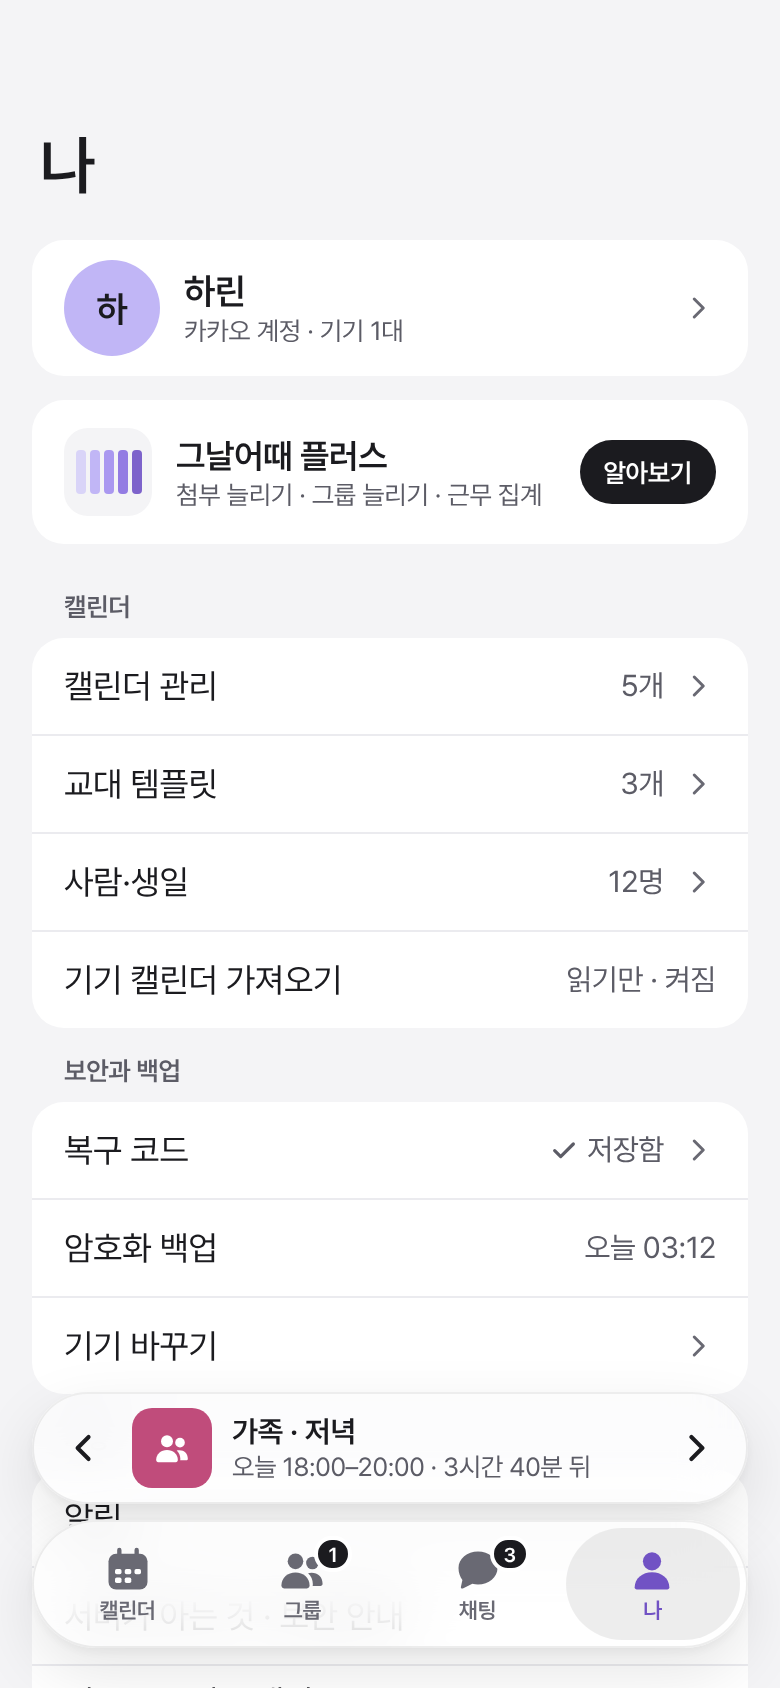
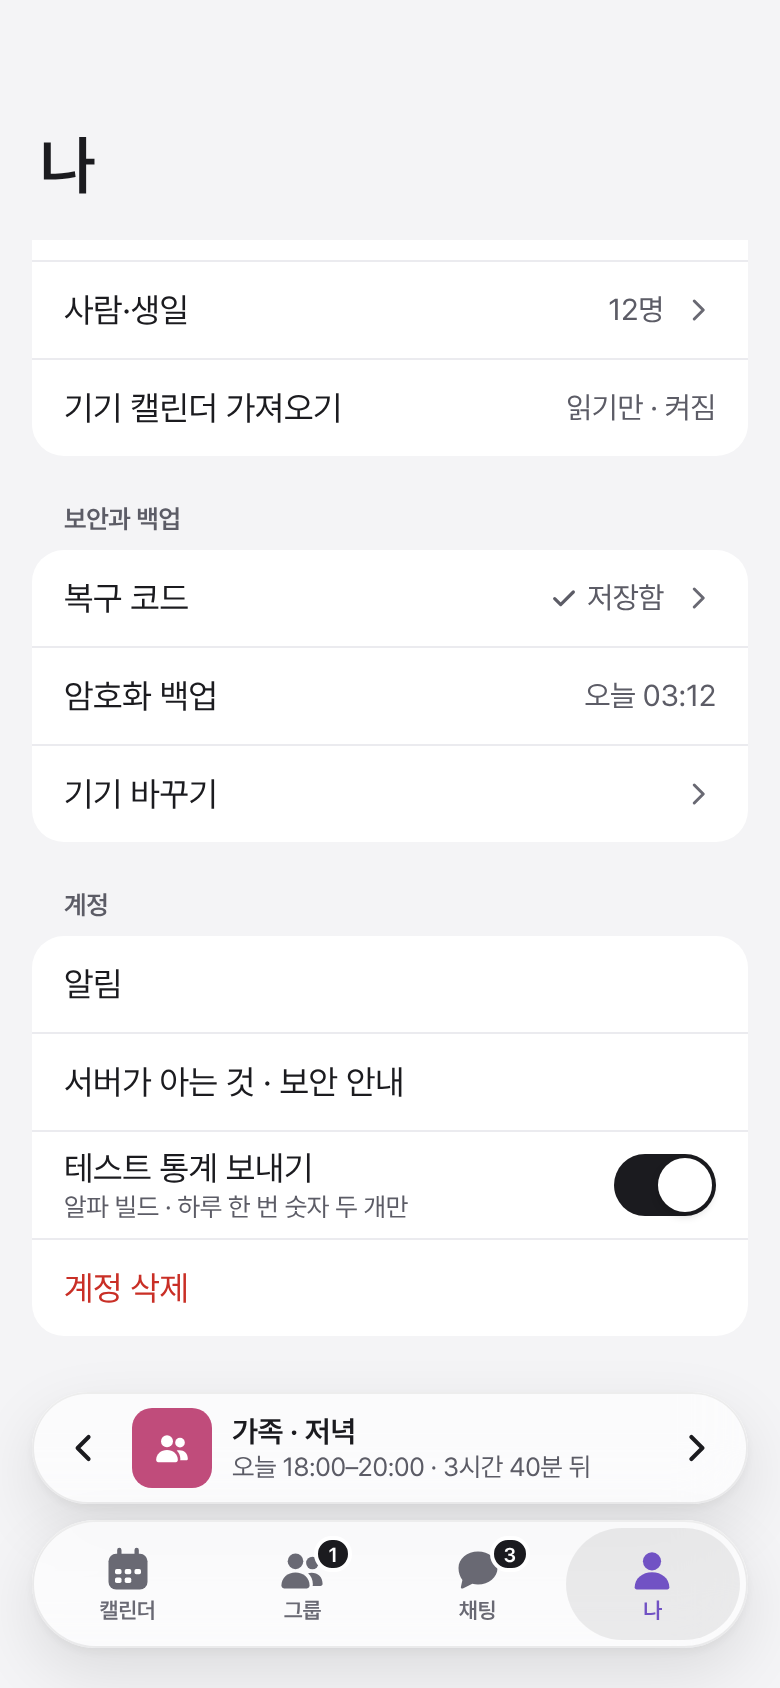
docs(design): scroll the whole settings column on the 나 screen
The first attempt only made the profile cards scroll; the three settings
groups were separate absolute blocks, so the statistics switch stayed
below the frame.

Claude-Session: https://claude.ai/code/session_01NfNQYytRc1WA56NULSw6PM

diff --git a/docs/design/boards/Me.dc.html b/docs/design/boards/Me.dc.html
@@ -13,13 +13,15 @@
 body{margin:0}
 a{color:#1b1b1f;text-decoration:none}a:hover{color:#1b1b1f}
 button{font:inherit;letter-spacing:inherit;color:inherit}
+[data-scroll]>*{flex:none}
 </style>
 </helmet>
 <div style="width: 390px; height: 844px; position: relative; overflow: hidden; background: #f4f4f6; color: #1b1b1f; font-family: Pretendard, -apple-system, BlinkMacSystemFont, 'Apple SD Gothic Neo', 'Noto Sans KR', sans-serif; letter-spacing: -0.01em; word-break: keep-all; overflow-wrap: break-word">
 
 <h1 style="position: absolute; top: 64px; left: 20px; margin: 0; font-size: 32px; font-weight: 600; letter-spacing: -0.025em">나</h1>
 
-<div data-scroll="settings" style="position: absolute; top: 120px; bottom: 0; left: 0; width: 390px; box-sizing: border-box; padding: 0 16px 176px; overflow-y: auto; display: flex; flex-direction: column; gap: 12px">
+<div data-scroll="settings" style="position: absolute; top: 120px; bottom: 0; left: 0; width: 390px; box-sizing: border-box; padding: 0 16px 176px; overflow-y: auto; display: flex; flex-direction: column; gap: 24px">
+<div style="display: flex; flex-direction: column; gap: 12px">
 <a href="Me.dc.html" style="min-height: 68px; box-sizing: border-box; padding: 0 16px; border-radius: 16px; background: #ffffff; display: flex; align-items: center; gap: 12px">
 <span style="flex: none; width: 48px; height: 48px; border-radius: 24px; background: #c1b6f6; display: flex; align-items: center; justify-content: center; font-size: 18px; font-weight: 600">하</span>
 <span style="flex: 1 1 0; display: flex; flex-direction: column; gap: 2px"><span style="font-size: 18px; font-weight: 600">하린</span><span style="font-size: 13px; color: #5c5c66">카카오 계정 · 기기 1대</span></span>
@@ -32,7 +34,7 @@ button{font:inherit;letter-spacing:inherit;color:inherit}
 </a>
 </div>
 
-<div style="position: absolute; top: 296px; left: 16px; width: 358px; display: flex; flex-direction: column; gap: 8px">
+<div style="display: flex; flex-direction: column; gap: 8px">
 <h2 style="margin: 0 0 0 16px; font-size: 13px; font-weight: 600; color: #5c5c66">캘린더</h2>
 <div style="border-radius: 16px; background: #ffffff; display: flex; flex-direction: column">
 <a href="Calendars.dc.html" style="min-height: 48px; padding: 0 16px; display: flex; align-items: center; gap: 8px; border-bottom: 1px solid #ebebef"><span style="flex: 1 1 0; font-size: 17px">캘린더 관리</span><span style="font-size: 15px; color: #5c5c66">5개</span><svg viewBox="0 0 24 24" width="18" height="18" aria-hidden="true" style="fill: none; stroke: #696973; stroke-width: 2; stroke-linecap: round; stroke-linejoin: round"><path d="M9.5 6l6 6-6 6"></path></svg></a>
@@ -42,7 +44,7 @@ button{font:inherit;letter-spacing:inherit;color:inherit}
 </div>
 </div>
 
-<div style="position: absolute; top: 528px; left: 16px; width: 358px; display: flex; flex-direction: column; gap: 8px">
+<div style="display: flex; flex-direction: column; gap: 8px">
 <h2 style="margin: 0 0 0 16px; font-size: 13px; font-weight: 600; color: #5c5c66">보안과 백업</h2>
 <div style="border-radius: 16px; background: #ffffff; display: flex; flex-direction: column">
 <a href="Recovery.dc.html" style="min-height: 48px; padding: 0 16px; display: flex; align-items: center; gap: 8px; border-bottom: 1px solid #ebebef"><span style="flex: 1 1 0; font-size: 17px">복구 코드</span><span style="display: flex; align-items: center; gap: 4px; font-size: 15px; color: #5c5c66"><svg viewBox="0 0 24 24" width="16" height="16" aria-hidden="true" style="fill: none; stroke: currentColor; stroke-width: 2.4; stroke-linecap: round; stroke-linejoin: round"><path d="M5 12.5l4.5 4.5L19 7.5"></path></svg>저장함</span><svg viewBox="0 0 24 24" width="18" height="18" aria-hidden="true" style="fill: none; stroke: #696973; stroke-width: 2; stroke-linecap: round; stroke-linejoin: round"><path d="M9.5 6l6 6-6 6"></path></svg></a>
@@ -51,7 +53,7 @@ button{font:inherit;letter-spacing:inherit;color:inherit}
 </div>
 </div>
 
-<div style="position: absolute; top: 712px; left: 16px; width: 358px; display: flex; flex-direction: column; gap: 8px">
+<div style="display: flex; flex-direction: column; gap: 8px">
 <h2 style="margin: 0 0 0 16px; font-size: 13px; font-weight: 600; color: #5c5c66">계정</h2>
 <div style="border-radius: 16px; background: #ffffff; display: flex; flex-direction: column">
 <a href="NotifySettings.dc.html" style="min-height: 48px; padding: 0 16px; display: flex; align-items: center; border-bottom: 1px solid #ebebef"><span style="font-size: 17px">알림</span></a>
@@ -61,6 +63,8 @@ button{font:inherit;letter-spacing:inherit;color:inherit}
 </sc-if>
 <a href="DeleteAccount.dc.html" style="min-height: 48px; padding: 0 16px; display: flex; align-items: center"><span style="font-size: 17px; color: #c92f26">계정 삭제</span></a>
 </div>
+</div>
+
 </div>
 
 <section aria-label="다음 할 일" style="position: absolute; left: 16px; top: 696px; width: 358px; height: 56px; box-sizing: border-box; padding: 0 4px; border-radius: 28px; background: rgba(255,255,255,0.66); backdrop-filter: blur(16px) saturate(180%); box-shadow: 0 12px 32px rgba(0,0,0,0.10), 0 2px 6px rgba(0,0,0,0.05), inset 0 0 0 1px rgba(0,0,0,0.07), inset 0 1px 0 rgba(255,255,255,0.9); display: flex; align-items: center; gap: 2px">
